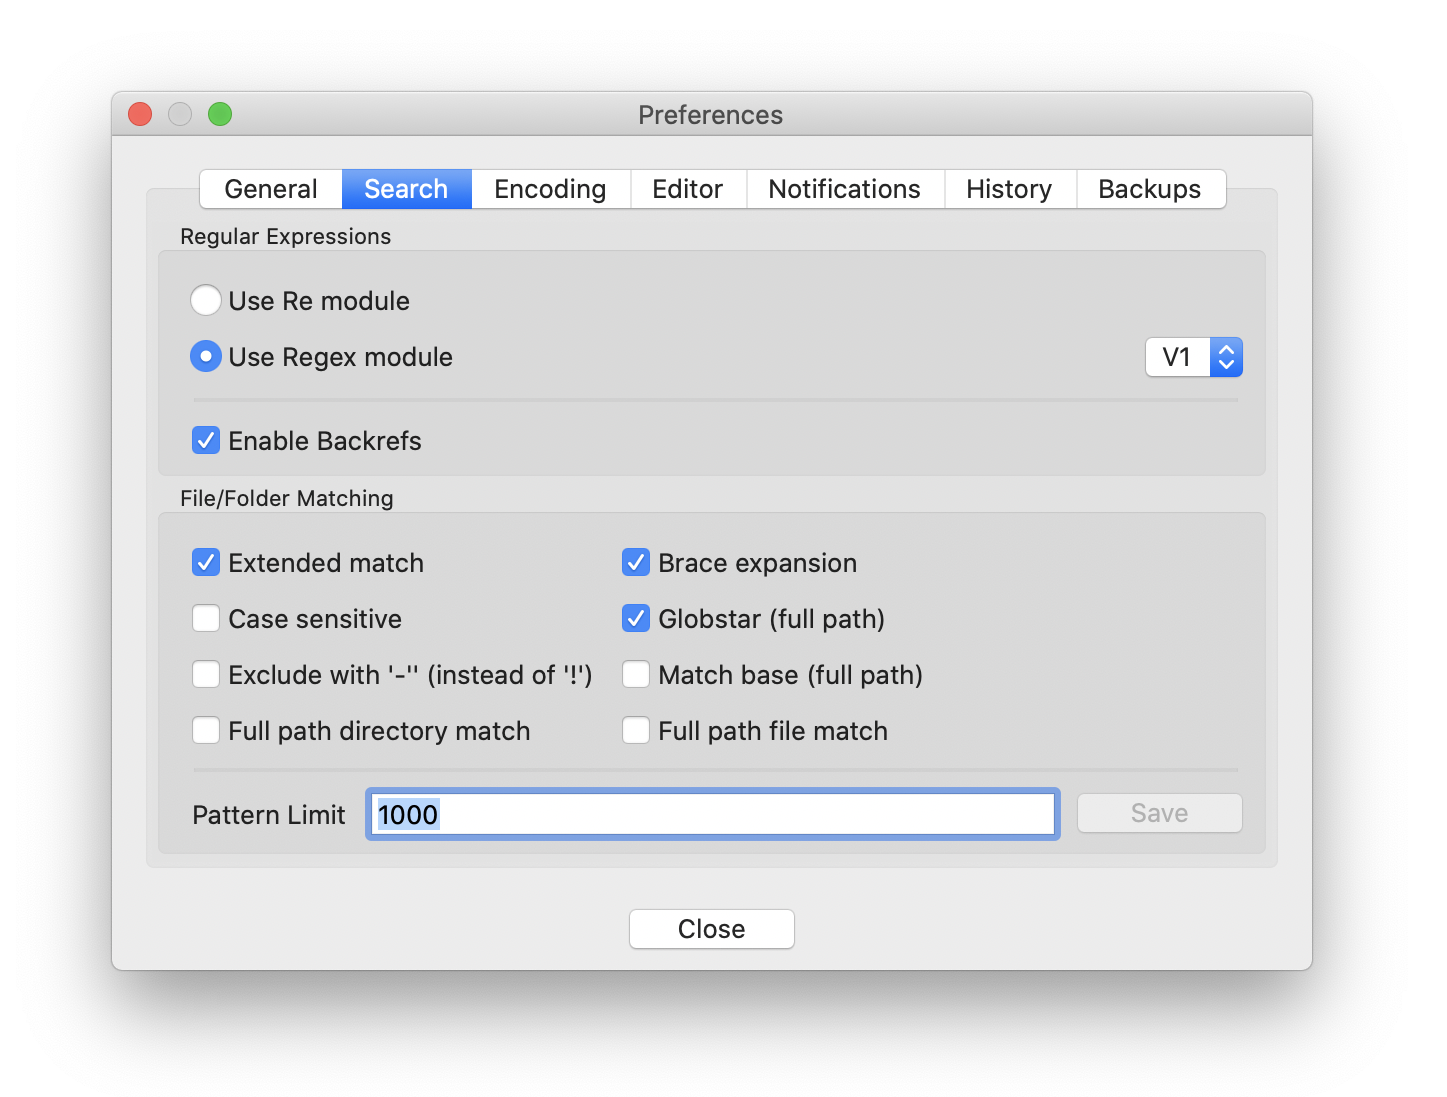
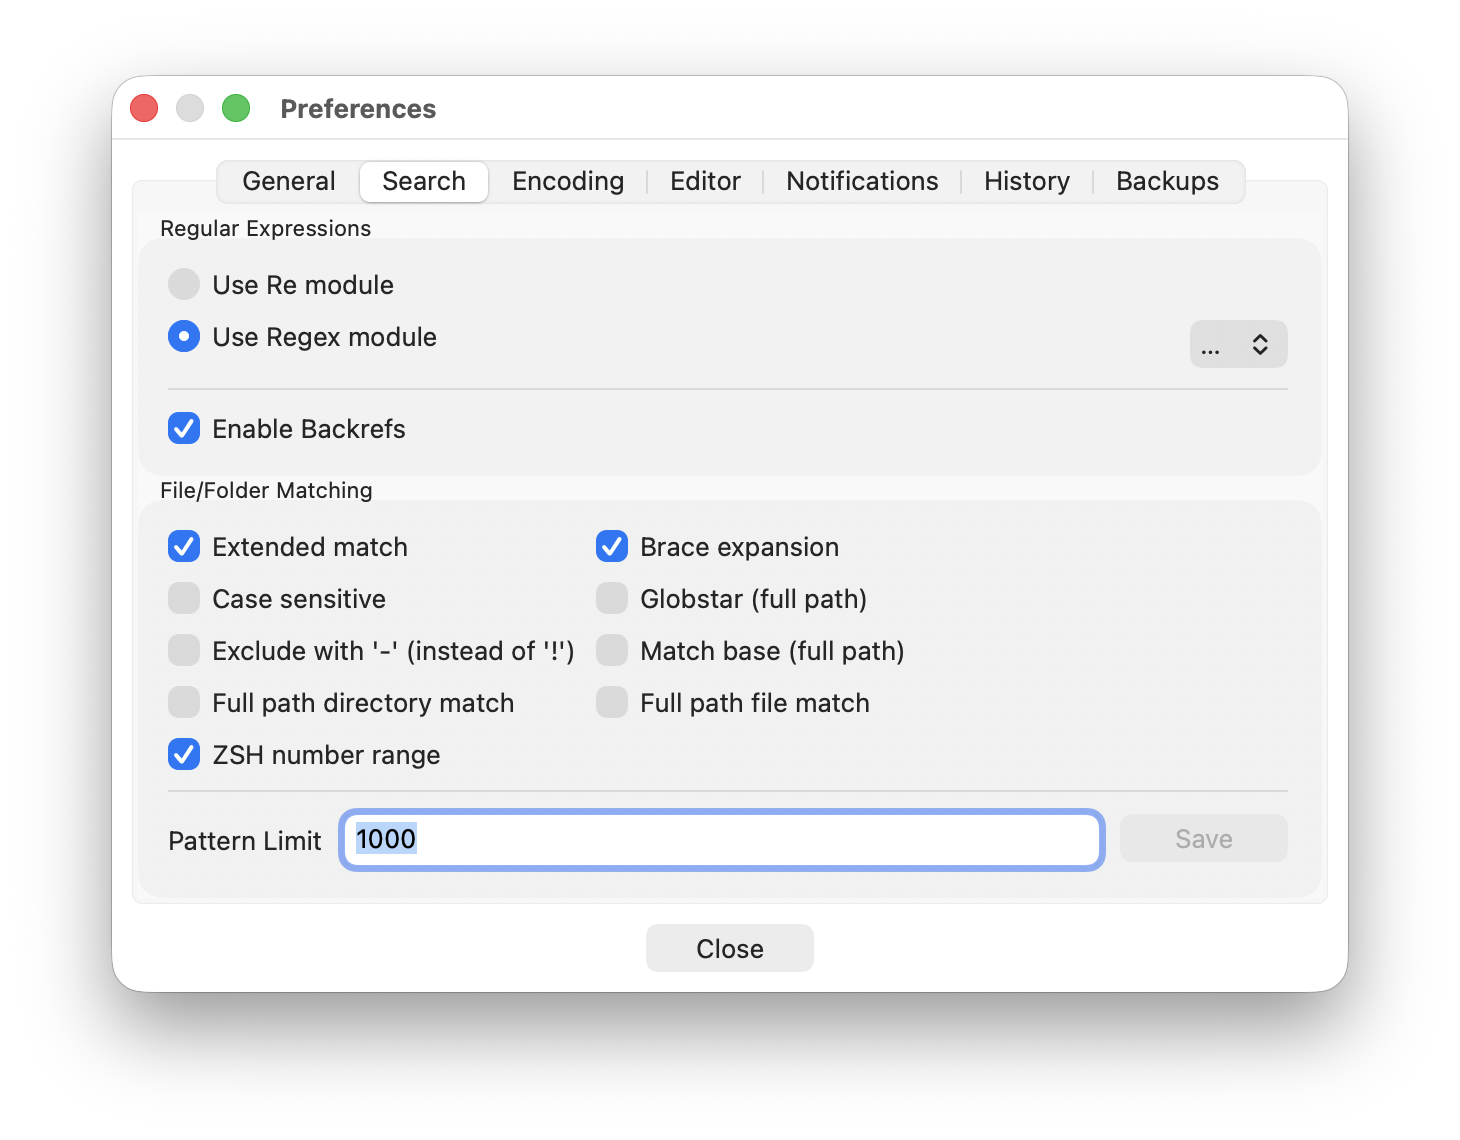
Add ZSH style number ranges

diff --git a/rummage/lib/gui/settings/__init__.py b/rummage/lib/gui/settings/__init__.py
@@ -86,6 +86,7 @@ DEFAULT_SETTINGS = {
     "full_exclude_path": False,
     "full_file_path": False,
     "globstar": False,
+    "zsh_numrange": False,
     "hide_cols_content": [],
     "hide_cols_file": [],
     "international_time": False,
@@ -1522,6 +1523,27 @@ class Settings:
         return cls.settings.get('full_exclude_path', False)
 
     @classmethod
+    def _set_zsh_numrange(cls, value):
+        """Set `zsh_numrange`."""
+
+        cls.settings['zsh_numrange'] = value
+
+    @classmethod
+    def set_zsh_numrange(cls, value):
+        """Set `zsh_numrange."""
+
+        cls.reload_settings()
+        cls._set_zsh_numrange(value)
+        cls.save_settings()
+
+    @classmethod
+    def get_zsh_numrange(cls):
+        """Get `zsh_numrange`."""
+
+        cls.reload_settings()
+        return cls.settings.get('zsh_numrange', False)
+
+    @classmethod
     def _set_full_file_path(cls, value):
         """Set full_file_path."""
 
@@ -1649,6 +1671,8 @@ class Settings:
             cls._set_minusnegate(obj['minusnegate'])
         if 'pattern_limit' in obj:
             cls._set_pattern_limit(obj['pattern_limit'])
+        if 'zsh_numrange' in obj:
+            cls._set_zsh_numrange(obj['zsh_numrange'])
 
         # Notifications
         update_notify = False

diff --git a/rummage/lib/gui/gui.py b/rummage/lib/gui/gui.py
@@ -1051,8 +1051,11 @@ class SettingsDialog ( wx.Dialog ):
         self.m_fullfile_checkbox = wx.CheckBox( sbSizer9.GetStaticBox(), wx.ID_ANY, u"Full path file match", wx.DefaultPosition, wx.DefaultSize, 0 )
         gbSizer7.Add( self.m_fullfile_checkbox, wx.GBPosition( 3, 1 ), wx.GBSpan( 1, 1 ), wx.ALL, 5 )
 
+        self.m_zsh_numrange_checkbox = wx.CheckBox( sbSizer9.GetStaticBox(), wx.ID_ANY, u"ZSH Number Range", wx.DefaultPosition, wx.DefaultSize, 0 )
+        gbSizer7.Add( self.m_zsh_numrange_checkbox, wx.GBPosition( 4, 0 ), wx.GBSpan( 1, 1 ), wx.ALL, 5 )
+
         self.m_staticline14 = wx.StaticLine( sbSizer9.GetStaticBox(), wx.ID_ANY, wx.DefaultPosition, wx.DefaultSize, wx.LI_HORIZONTAL )
-        gbSizer7.Add( self.m_staticline14, wx.GBPosition( 4, 0 ), wx.GBSpan( 1, 2 ), wx.EXPAND |wx.ALL, 5 )
+        gbSizer7.Add( self.m_staticline14, wx.GBPosition( 5, 0 ), wx.GBSpan( 1, 2 ), wx.EXPAND |wx.ALL, 5 )
 
         gbSizer8 = wx.GridBagSizer( 0, 0 )
         gbSizer8.SetFlexibleDirection( wx.BOTH )
@@ -1073,7 +1076,7 @@ class SettingsDialog ( wx.Dialog ):
         gbSizer8.AddGrowableCol( 1 )
         gbSizer8.AddGrowableRow( 0 )
 
-        gbSizer7.Add( gbSizer8, wx.GBPosition( 5, 0 ), wx.GBSpan( 1, 2 ), wx.EXPAND, 5 )
+        gbSizer7.Add( gbSizer8, wx.GBPosition( 6, 0 ), wx.GBSpan( 1, 2 ), wx.EXPAND, 5 )
 
 
         gbSizer7.AddGrowableCol( 1 )
@@ -1350,6 +1353,7 @@ class SettingsDialog ( wx.Dialog ):
         self.m_matchbase_checkbox.Bind( wx.EVT_CHECKBOX, self.on_matchbase_toggle )
         self.m_fullpath_checkbox.Bind( wx.EVT_CHECKBOX, self.on_fullpath_toggle )
         self.m_fullfile_checkbox.Bind( wx.EVT_CHECKBOX, self.on_fullfile_toggle )
+        self.m_zsh_numrange_checkbox.Bind( wx.EVT_CHECKBOX, self.on_zsh_numrange_toggle )
         self.m_pattern_limit_textbox.Bind( wx.EVT_TEXT, self.on_pattern_limit_changed )
         self.m_pattern_limit_button.Bind( wx.EVT_BUTTON, self.on_pattern_limit_click )
         self.m_encoding_choice.Bind( wx.EVT_CHOICE, self.on_chardet )
@@ -1434,6 +1438,9 @@ class SettingsDialog ( wx.Dialog ):
         event.Skip()
 
     def on_fullfile_toggle( self, event ):
+        event.Skip()
+
+    def on_zsh_numrange_toggle( self, event ):
         event.Skip()
 
     def on_pattern_limit_changed( self, event ):

diff --git a/rummage/lib/gui/dialogs/rummage_dialog.py b/rummage/lib/gui/dialogs/rummage_dialog.py
@@ -2,7 +2,7 @@
 Rummage Dialog.
 
 Licensed under MIT
-Copyright (c) 2011 - 2015 Isaac Muse <[email redacted]>
+Copyright (c) 2011 - 2026 Isaac Muse <[email redacted]>
 
 Permission is hereby granted, free of charge, to any person obtaining a copy of this software and associated
 documentation files (the "Software"), to deal in the Software without restriction, including without limitation
@@ -328,6 +328,7 @@ class RummageArgs:
         self.full_exclude_path = False
         self.full_file_path = False
         self.globstar = False
+        self.zsh_numrange = False
         self.matchbase = False
         self.minusnegate = True
         self.encoding_options = {}
@@ -1217,6 +1218,9 @@ class RummageFrame(gui.RummageFrame):
         if args.brace_expansion:
             flags |= rumcore.BRACE
 
+        if args.zsh_numrange:
+            flags |= rumcore.NUMRANGE
+
         if args.file_case_sensitive:
             flags |= rumcore.FILECASE
 
@@ -1401,6 +1405,7 @@ class RummageFrame(gui.RummageFrame):
             args.globstar = bool(Settings.get_globstar())
             args.matchbase = bool(Settings.get_matchbase())
             args.minusnegate = bool(Settings.get_minusnegate())
+            args.zsh_numrange = bool(Settings.get_zsh_numrange())
 
             args.filepattern = self.m_filematch_textbox.Value
             if self.m_fileregex_checkbox.GetValue():

diff --git a/rummage/lib/gui/dialogs/settings_dialog.py b/rummage/lib/gui/dialogs/settings_dialog.py
@@ -123,6 +123,7 @@ class SettingsDialog(webview.WebViewMixin, gui.SettingsDialog):
         self.m_brace_checkbox.SetValue(Settings.get_brace_expansion())
         self.m_case_checkbox.SetValue(Settings.get_file_case_sensitive())
         self.m_fullpath_checkbox.SetValue(Settings.get_full_exclude_path())
+        self.m_zsh_numrange_checkbox.SetValue(Settings.get_zsh_numrange())
         self.m_fullfile_checkbox.SetValue(Settings.get_full_file_path())
         self.m_globstar_checkbox.SetValue(Settings.get_globstar())
         self.m_matchbase_checkbox.SetValue(Settings.get_matchbase())
@@ -264,6 +265,7 @@ class SettingsDialog(webview.WebViewMixin, gui.SettingsDialog):
         self.BRACES = _("Brace expansion")
         self.CASE = _("Case sensitive")
         self.FULL_PATH = _("Full path directory match")
+        self.ZSH_NUMRANGE = _("ZSH number range")
         self.FULL_FILE = _("Full path file match")
         self.GLOBSTAR = _("Globstar (full path)")
         self.MATCHBASE = _("Match base (full path)")
@@ -339,6 +341,7 @@ class SettingsDialog(webview.WebViewMixin, gui.SettingsDialog):
         self.m_brace_checkbox.SetLabel(self.BRACES)
         self.m_case_checkbox.SetLabel(self.CASE)
         self.m_fullpath_checkbox.SetLabel(self.FULL_PATH)
+        self.m_zsh_numrange_checkbox.SetLabel(self.ZSH_NUMRANGE)
         self.m_fullfile_checkbox.SetLabel(self.FULL_FILE)
         self.m_globstar_checkbox.SetLabel(self.GLOBSTAR)
         self.m_matchbase_checkbox.SetLabel(self.MATCHBASE)
@@ -659,6 +662,10 @@ class SettingsDialog(webview.WebViewMixin, gui.SettingsDialog):
         """Handle full path toggle."""
 
         Settings.set_full_exclude_path(self.m_fullpath_checkbox.GetValue())
+
+    def on_zsh_numrange_toggle(self, event):
+
+        Settings.set_zsh_numrange(self.m_zsh_numrange_checkbox.GetValue())
 
     def on_fullfile_toggle(self, event):
         """Handle full file toggle."""

diff --git a/rummage/lib/rumcore/__init__.py b/rummage/lib/rumcore/__init__.py
@@ -83,6 +83,7 @@ FILEPATHNAME = 0x1000000000  # Full file name path match
 GLOBSTAR = 0x2000000000      # Use globstar (**) in full paths
 MATCHBASE = 0x4000000000     # Match base names when no slashes are present (full path)
 MINUSNEGATE = 0x8000000000   # Use - instead of ! for exclusion patterns.
+NUMRANGE = 0x10000000000     # ZSH style number ranges.
 
 RE_MODE = 0
 BRE_MODE = 1
@@ -90,8 +91,8 @@ REGEX_MODE = 2
 BREGEX_MODE = 3
 
 SEARCH_MASK = 0x1FFFF
-FILE_MASK = 0xFFFFFE0000
-FNMATCH_FLAGS = 0xFF00000000
+FILE_MASK = 0x1FFFFFE0000
+FNMATCH_FLAGS = 0x1FF00000000
 
 RE_MODES = (RE_MODE, BRE_MODE)
 REGEX_MODES = (REGEX_MODE, BREGEX_MODE)
@@ -1334,6 +1335,8 @@ class Rummage:
             self.wcmatch_flags |= wcmatch.E
         if self.file_flags & BRACE:
             self.wcmatch_flags |= wcmatch.B
+        if self.file_flags & NUMRANGE:
+            self.wcmatch_flags |= wcmatch.NUMRANGE
         if self.file_flags & FILECASE:
             self.wcmatch_flags |= wcmatch.C
         if self.file_flags & DIRPATHNAME:

diff --git a/rummage/lib/gui/dialogs/import_settings_dialog.py b/rummage/lib/gui/dialogs/import_settings_dialog.py
@@ -39,7 +39,7 @@ class ImportSettingsDialog(gui.ImportSettingsDialog):
         "notify_enabled", "single_instance", "extmatch",
         "brace_expansion", "file_case_sensitive", "full_exclude_path", "full_file_path",
         "globstar", "international_time", "matchbase", "minusnegate", "alt_list_color",
-        "autocomplete"
+        "autocomplete", "zsh_numrange"
     )
     STRING = ("backup_ext", "backup_folder", "term_notifier", "editor", "notify_method", "notify_sound")
     INTEGER = ("backup_type", "regex_mode", "regex_version", "patten_limit")

diff --git a/docs/src/markdown/search.md b/docs/src/markdown/search.md
@@ -144,6 +144,18 @@ Pattern           | Meaning
 > If you need to escape `-` or `|`, you can put them in a sequence: `[-|]`. Remember to place `-` at the beginning of
 > a sequence as `-` is also used to specify character ranges: `[a-z]`.
 
+#### ZSH Number Ranges
+
+ZSH number ranges are a simple syntax for specifying a simple range of numbers via `<0-100>`. Ends can also be omitted
+allowing for unbounded ranges: `<->`, `<-100>`, `<0-100>`, etc. It should be noted that numbers must be whole, positive
+numbers and manually specified numbers greater than 19 digits will be truncated.
+
+ZSH number ranges also handle numbers padded with zeros, so `<0-9>` would match `5`, `05`, `005`, etc. You can pad your
+match pattern with zeros (`<0010-0090>`), but it has no affect on the actual search. Input numbers will be normalized
+(`<10-90>`) and ZSH padding number handling is always the same.
+
+This can be enabled in [Preferences](./preferences.md#search).
+
 #### Extended Match Syntax
 
 In [Preferences](./preferences.md#search), you can also enable extended match patterns. Extended match patterns allow

diff --git a/docs/src/markdown/about/changelog.md b/docs/src/markdown/about/changelog.md
@@ -1,5 +1,10 @@
 # Changelog
 
+## 4.25
+
+-   **NEW**: Require `wcmatch` 11.0+.
+-   **NEW**: Add new "ZSH number range" option in settings to enable ZSH style number ranges in glob patterns (`<0-9>`).
+
 ## 4.24.1
 
 -   **NEW**: Fix URL handling in documentation rendering in `webview`.

diff --git a/docs/src/markdown/.snippets/abbr.md b/docs/src/markdown/.snippets/abbr.md
@@ -1,1 +1,2 @@
 *[JSON]: JavaScript Object Notation
+*[ZSH]: Z Shell